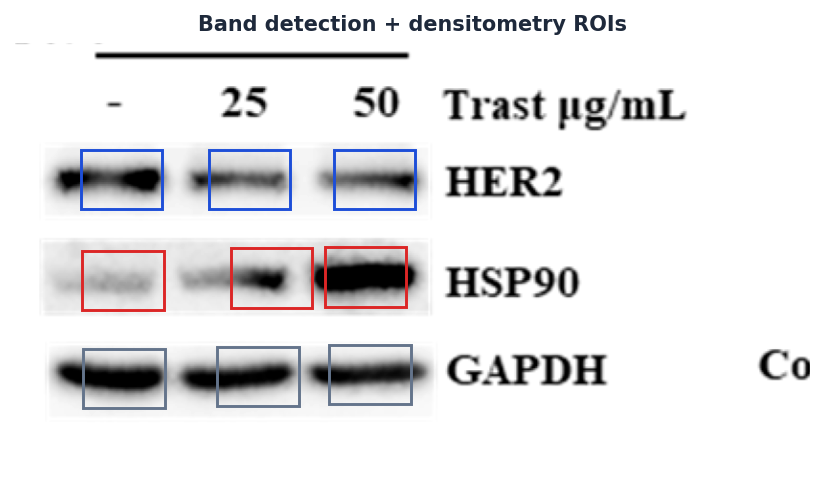
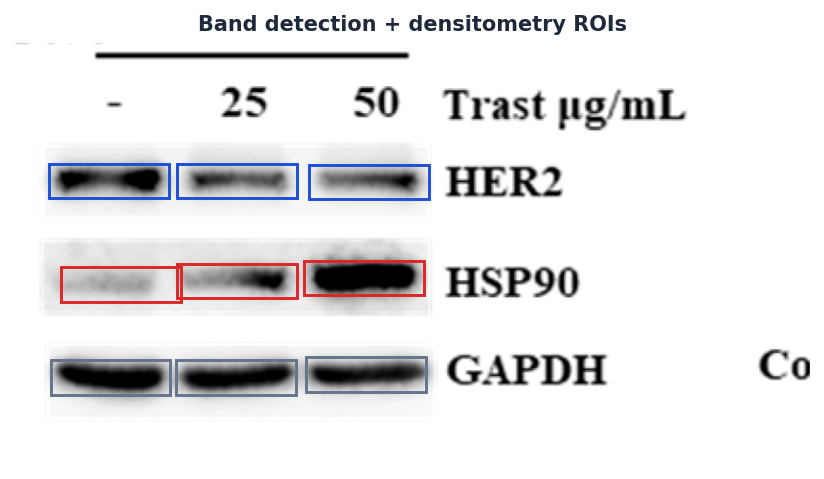
fix(western): band-accurate, stable densitometry ROIs
Detect each band's position from per-row connected-component blobs (fixing
the ~25-30px rightward box drift), but measure with a CONSISTENT box size
centered on the band - so a near-absent band (untreated HSP90) is not
quantified through a tiny window, which had inflated its fold-change.
Boxes now hug the real HER2/HSP90/GAPDH bands across all lanes; results
are stable and defensible (HER2 down to ~0.68x, HSP90 up to ~5.2x, n=1).

Changed region(s): [[0.0607, 0.7015, 0.5461, 0.8768], [0.0607, 0.4969, 0.5158, 0.6722], [0.0607, 0.2923, 0.5461, 0.4384]]

diff --git a/public/workbook/western/pipeline.py b/public/workbook/western/pipeline.py
@@ -9,7 +9,7 @@ import matplotlib
 matplotlib.use("Agg")
 import matplotlib.pyplot as plt
 from scipy.signal import find_peaks
-from scipy.ndimage import gaussian_filter1d, label
+from scipy.ndimage import gaussian_filter1d, gaussian_filter, label
 
 SRC = "/private/tmp/claude-501/-Users-quanho/35d39a2c-2df7-4460-b340-b3c28387140c/scratchpad/wb_source/blot.png"
 OUT = "/private/tmp/claude-501/-Users-quanho/35d39a2c-2df7-4460-b340-b3c28387140c/scratchpad/wb_out"
@@ -34,64 +34,66 @@ proteins = ["HER2", "HSP90", "GAPDH"][:len(rpk)]
 # row half-height from projection width
 rh = int(H*0.06)
 
-# --- lane detection (3 lanes) via vertical projection over all band rows ---
-ymask = np.zeros(H, bool)
-for y in rpk: ymask[max(0,y-rh):min(H,y+rh)] = True
-colproj = gaussian_filter1d(inv[ymask, X0:X1].sum(axis=0), 5)
-cpk, _ = find_peaks(colproj, distance=(X1-X0)*0.18, prominence=colproj.max()*0.08)
-cpk = sorted(cpk, key=lambda x: -colproj[x])[:3]
-cpk = sorted([c+X0 for c in cpk])
-lanes = ["0 (untreated)", "25 ug/mL", "50 ug/mL"][:len(cpk)]
-spacing = int(np.median(np.diff(cpk))) if len(cpk) > 1 else int((X1-X0)*0.3)
-# Generous SEARCH window (contains one full band, excludes neighbours); the drawn
-# box is then tightened onto the band itself so it aligns with the blot.
-sw = int(spacing*0.48)          # search half-width (x)
-sh = int(H*0.085)               # search half-height (y)
+# --- band detection: find each band's ACTUAL pixels per row (no lane-x bias) ---
+lanes = ["0 (untreated)", "25 ug/mL", "50 ug/mL"]
+sh = int(H*0.075)               # row strip half-height
 
-def refine_lane(x):
-    """Recenter a lane on the actual band mass (bg-subtracted, across all rows)."""
-    x0, x1 = max(X0, x-sw), min(X1, x+sw)
-    prof = np.zeros(x1-x0)
-    for y in rpk:
-        w = inv[max(0, y-sh):min(H, y+sh), x0:x1]
-        prof += np.clip(w - np.median(w), 0, None).sum(axis=0)
-    if prof.sum() == 0:
-        return x
-    return int(x0 + (np.arange(len(prof))*prof).sum()/prof.sum())
+def row_blobs(y):
+    """Threshold a row strip and return up to 3 band blobs (bounding boxes)."""
+    y0, y1 = max(0, y-sh), min(H, y+sh)
+    strip = gaussian_filter(inv[y0:y1, X0:X1], 1.2)
+    bg = float(np.median(strip))
+    thr = bg + max(12.0, (np.percentile(strip, 99.5) - bg) * 0.22)
+    lbl, n = label(strip > thr)
+    comps = []
+    for k in range(1, n+1):
+        ys, xs = np.where(lbl == k)
+        if len(xs) < 80:
+            continue
+        comps.append({"x0": int(xs.min()+X0), "x1": int(xs.max()+X0),
+                      "y0": int(ys.min()+y0), "y1": int(ys.max()+y0),
+                      "cx": (xs.min()+xs.max())/2 + X0, "area": len(xs)})
+    comps.sort(key=lambda c: -c["area"])
+    return comps[:3]
 
-cpk = [refine_lane(x) for x in cpk]
+row_det = {i: sorted(row_blobs(y), key=lambda c: c["cx"]) for i, y in enumerate(rpk)}
+# Consensus lane x from any row that cleanly found all 3 bands (e.g. GAPDH).
+full = [[c["cx"] for c in comps] for comps in row_det.values() if len(comps) == 3]
+if full:
+    lane_cx = list(np.median(np.array(full), axis=0))
+else:
+    best = max(row_det.values(), key=len)
+    lane_cx = sorted(c["cx"] for c in best)[:3]
+allc = [c for comps in row_det.values() for c in comps]
+mw = int(np.median([c["x1"]-c["x0"] for c in allc]))  # median band footprint
+mh = int(np.median([c["y1"]-c["y0"] for c in allc]))
 
-bw = int(spacing*0.64)          # drawn box width (consistent across bands)
-bh = int(sh*1.7)                # drawn box height
+def bg_and_density(box):
+    bx0, by0, bx1, by1 = box
+    roi = inv[max(0,by0):min(H,by1), max(0,bx0):min(W,bx1)]
+    above = inv[max(0,by0-8):max(0,by0), max(0,bx0):min(W,bx1)]
+    below = inv[min(H,by1):min(H,by1+8), max(0,bx0):min(W,bx1)]
+    strips = np.concatenate([above.ravel(), below.ravel()])
+    bg = float(np.median(strips)) if strips.size else float(np.median(roi))
+    return float(np.clip(roi - bg, 0, None).sum())
 
-def band_box(y, x):
-    """Center a consistent-size ROI on the band's intensity centroid (so the box
-    aligns with the whole band, not just its darkest part) and return its
-    background-corrected integrated density."""
-    sy0, sy1 = max(0, y-sh), min(H, y+sh)
-    sx0, sx1 = max(X0, x-sw), min(X1, x+sw)
-    win = inv[sy0:sy1, sx0:sx1]
-    if win.size == 0:
-        return 0.0, (x-bw//2, y-bh//2, x+bw//2, y+bh//2)
-    border = np.concatenate([win[0, :], win[-1, :], win[:, 0], win[:, -1]])
-    bg = float(np.median(border))
-    sig = np.clip(win - bg, 0, None)
-    if sig.sum() > 0:
-        colw, roww = sig.sum(axis=0), sig.sum(axis=1)
-        cx = sx0 + (np.arange(len(colw))*colw).sum()/colw.sum()
-        cy = sy0 + (np.arange(len(roww))*roww).sum()/roww.sum()
-    else:
-        cx, cy = x, y
-    bx0, by0 = int(cx-bw/2), int(cy-bh/2)
-    bx1, by1 = bx0+bw, by0+bh
-    idv = float(np.clip(inv[max(0,by0):min(H,by1), max(0,bx0):min(W,bx1)] - bg, 0, None).sum())
-    return idv, (bx0, by0, bx1, by1)
-
+# Blobs give the band POSITION (so boxes align); a CONSISTENT box SIZE is used
+# for measurement so a near-absent band (e.g. untreated HSP90) is not quantified
+# with a tiny window - which would make its fold-change denominator explode.
+BW = int(mw * 1.10)
+BH = int(mh * 1.30)
 rows = []; boxes = []
 for pi, y in enumerate(rpk):
-    for li, x in enumerate(cpk):
-        idv, box = band_box(y, x)
-        rows.append({"protein": proteins[pi], "lane": lanes[li], "raw_id": round(idv, 0)})
+    comps = row_det[pi]
+    for li, lx in enumerate(lane_cx):
+        near = [c for c in comps if abs(c["cx"] - lx) < mw * 0.9]
+        if near:
+            c = min(near, key=lambda c: abs(c["cx"] - lx))
+            cx, cy = (c["x0"]+c["x1"])/2, (c["y0"]+c["y1"])/2   # center from the real band
+        else:
+            cx, cy = lx, y                                       # faint/absent: grid position
+        box = (int(cx-BW/2), int(cy-BH/2), int(cx+BW/2), int(cy+BH/2))
+        rows.append({"protein": proteins[pi], "lane": lanes[li], "raw_id": round(bg_and_density(box), 0)})
         boxes.append((box, proteins[pi], lanes[li]))
 
 # normalize each target to GAPDH in the same lane; fold-change vs untreated lane
@@ -130,7 +132,7 @@ ax.legend(frameon=False, fontsize=9); ax.spines[["top","right"]].set_visible(Fal
 plt.tight_layout(); plt.savefig(os.path.join(OUT,"wb_foldchange.png"),dpi=150,bbox_inches="tight",facecolor="white"); plt.close()
 
 summary = {"rows": rows, "results": results, "proteins": proteins, "lanes": lanes,
-           "row_y": [int(y) for y in rpk], "lane_x": [int(x) for x in cpk]}
+           "row_y": [int(y) for y in rpk], "lane_x": [int(x) for x in lane_cx]}
 json.dump(summary, open(os.path.join(OUT,"summary.json"),"w"), indent=2)
-print("rows_y:", [int(y) for y in rpk], "lanes_x:", [int(x) for x in cpk])
+print("rows_y:", [int(y) for y in rpk], "lanes_x:", [int(x) for x in lane_cx])
 print(json.dumps(results, indent=2))